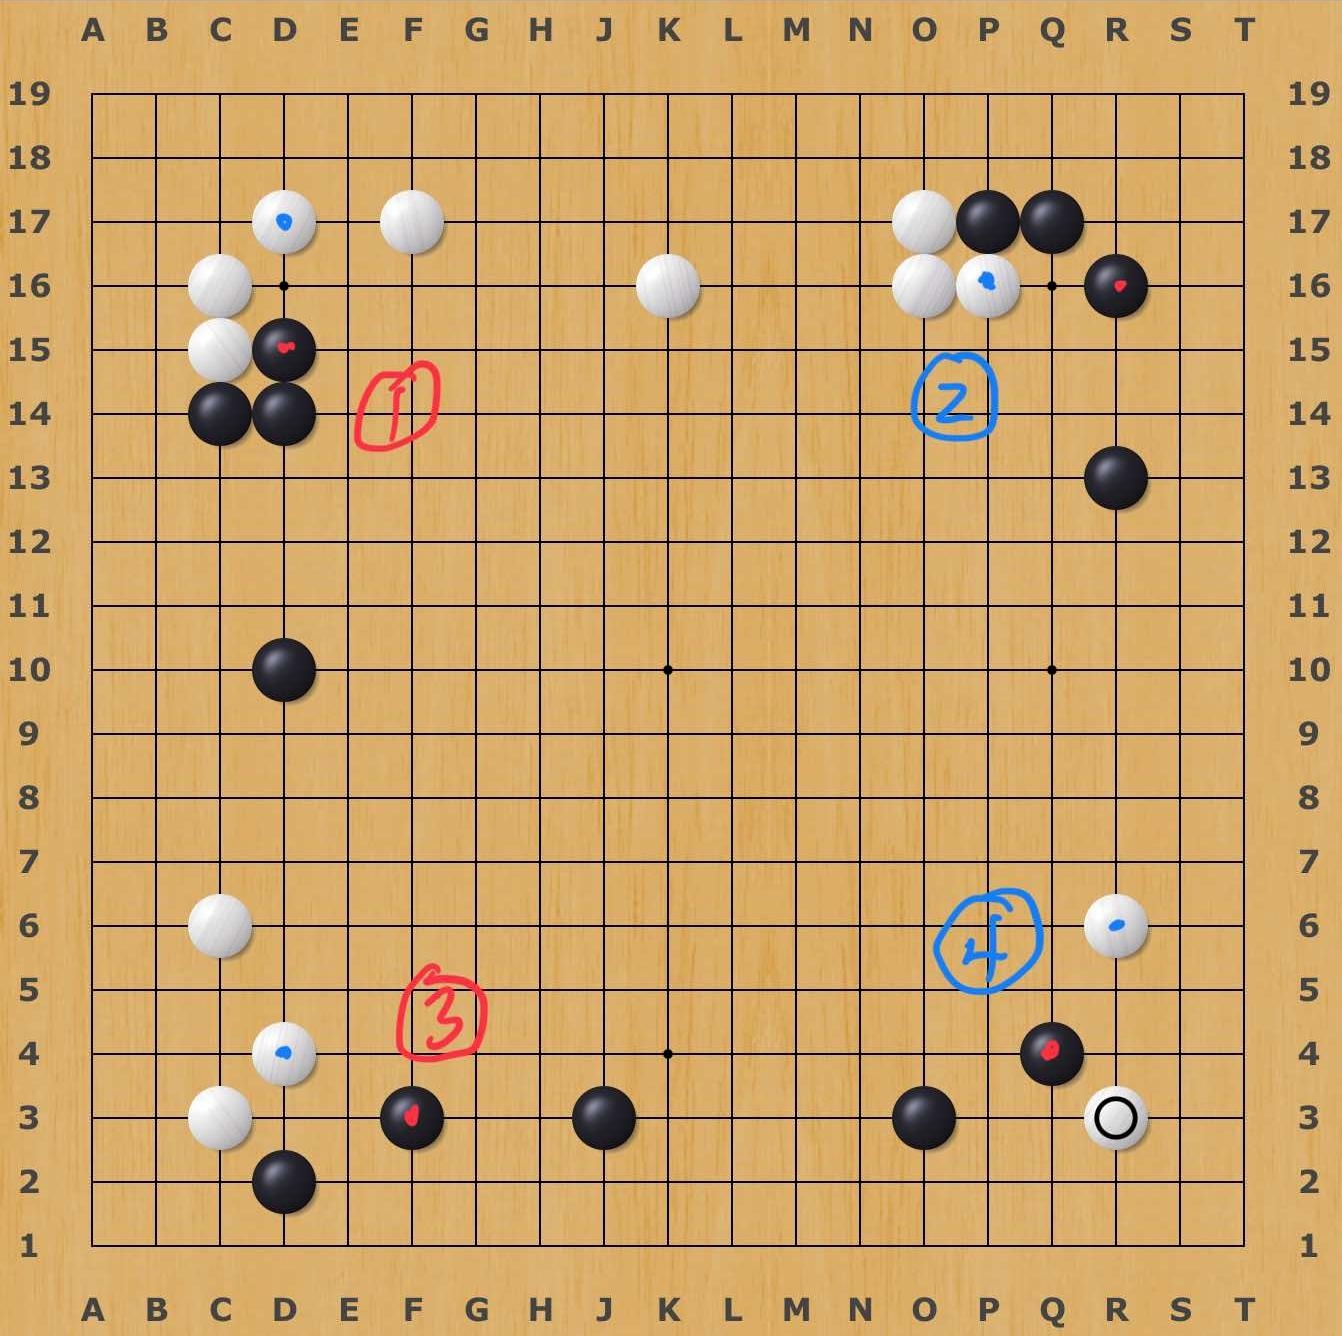
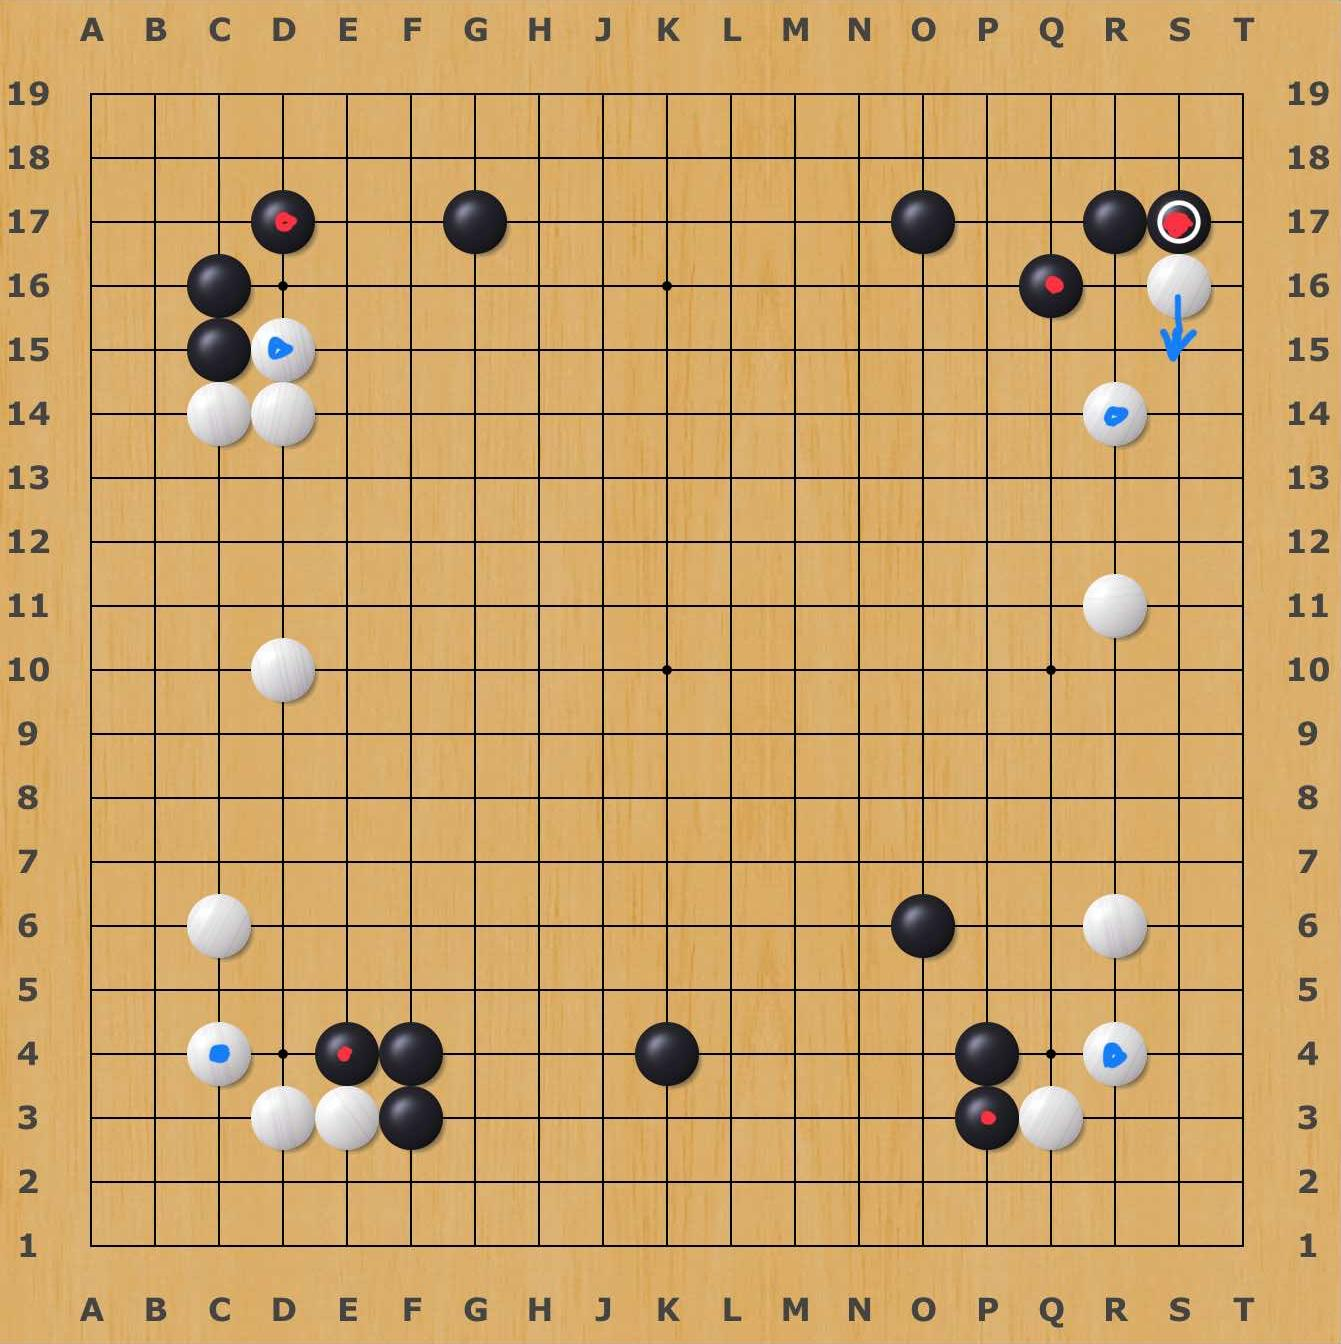
Add lesson 2025-06-13

diff --git a/posts/lesson-2025-06-13.md b/posts/lesson-2025-06-13.md
@@ -1,0 +1,93 @@
+
+## Lesson 2025-06-13
+
+A very tactical and calculated game from John today.  It didn’t seem like he hadn’t played in a month.
+
+![dia 1](images/l20250516/igo1.jpg)
+
+We had a solid standard start, then John closed off the top right corner, expecting I’d step back.
+
+![dia 2](images/l20250516/igo2.jpg)
+
+B1  two spaced jumped from a 2 stone wall, so w2 calmly blocked.  The invasion on the right was ill advised (unless you were going to follow through and run), as there is no space for a base.  You have to expect the lower corner to move out, so black needs to move too, then when the top responds, black needs to move into the center.
+
+![dia 3](images/l20250516/igo3.jpg)
+
+Expanding the center is an idea.
+
+![dia 4](images/l20250516/igo4.jpg)
+
+..or expand from a dogface attachment.
+
+![dia 5](images/l20250516/igo5.jpg)
+
+Instead of supporting the invasion, black 2 space jumped from a 2 space extension.  Although somewhat flimsy, it was strong enough to not approach it too closely when white  went to reduce the top.  Also, playing an invasion on the 3rd line would have been much too risky.
+
+![dia 6](images/l20250516/igo6.jpg)
+
+B1 was a good response.  W2 was to get a presence on the edge, but b3 meant white should scoot into the center.
+
+![dia 7](images/l20250516/igo7.jpg)
+
+White’s response to b1 shows what was being prioritized (keep the single stone dead and the right side big.  At the top, the 3 stones being able to escape was also important, living on the edge at the top not very.
+
+![dia 8](images/l20250516/igo8.jpg)
+
+Black found the sweet spot and cut the 3 stones off from the top edge.  White fought back, but then switched to reducing the bottom, as I had no good answer yet on how to limit the damage at the top.  If black extends, then the top is completely lost.
+
+![dia 9](images/l20250516/igo9.jpg)
+
+Black turned to Atari at the top instead, giving me an extra move to push deeper at the bottom, plus the other two stones at the top still had aji.
+
+![dia 10](images/l20250516/igo10.jpg)
+
+Black could have defended the bottom and still have gotten a good result at the top.
+
+![dia 11](images/l20250516/igo11.jpg)
+
+Of course, extending would have been a better move than the turn Atari.
+
+![dia 12](images/l20250516/igo12.jpg)
+
+When b1 defended the bottom, white attached to attempt a rescue.  Black could still extend, but the attached black stone would suffer.
+
+![dia 13](images/l20250516/igo13.jpg)
+
+A bit of back and forth captured the one stone and white was safe in the center with the top rescued.
+
+![dia 14](images/l20250516/igo14.jpg)
+
+B1 sought to separate the stones at the bottom from connecting to the top, so white went down and around to connect to the corner.
+
+![dia 15](images/l20250516/igo15.jpg)
+
+In hindsight, extending might have been better.
+
+![dia 16](images/l20250516/igo16.jpg)
+
+For white as well, as I didn’t realize that the black stones were vulnerable to being cut off (without eye?)
+
+![dia 17](images/l20250516/igo17.jpg)
+
+Black found an interesting move here, which left me puzzled.
+
+![dia 18](images/l20250516/igo18.jpg)
+
+I thought that black gave up the one stone too quickly.
+
+![dia 19](images/l20250516/igo19.jpg)
+
+Why not extend once?
+
+![dia 20](images/l20250516/igo20.jpg)
+
+..then sacrifice the two.
+
+That’s it for today….gotta get Chicken Curry with Naan for lunch!
+
+
+[On YouTube ↗](https://www.youtube.com/watch?v=X-XoMqZIVdE) · [On OGS ↗](https://online-go.com/game/76249416)
+
+
+
+
